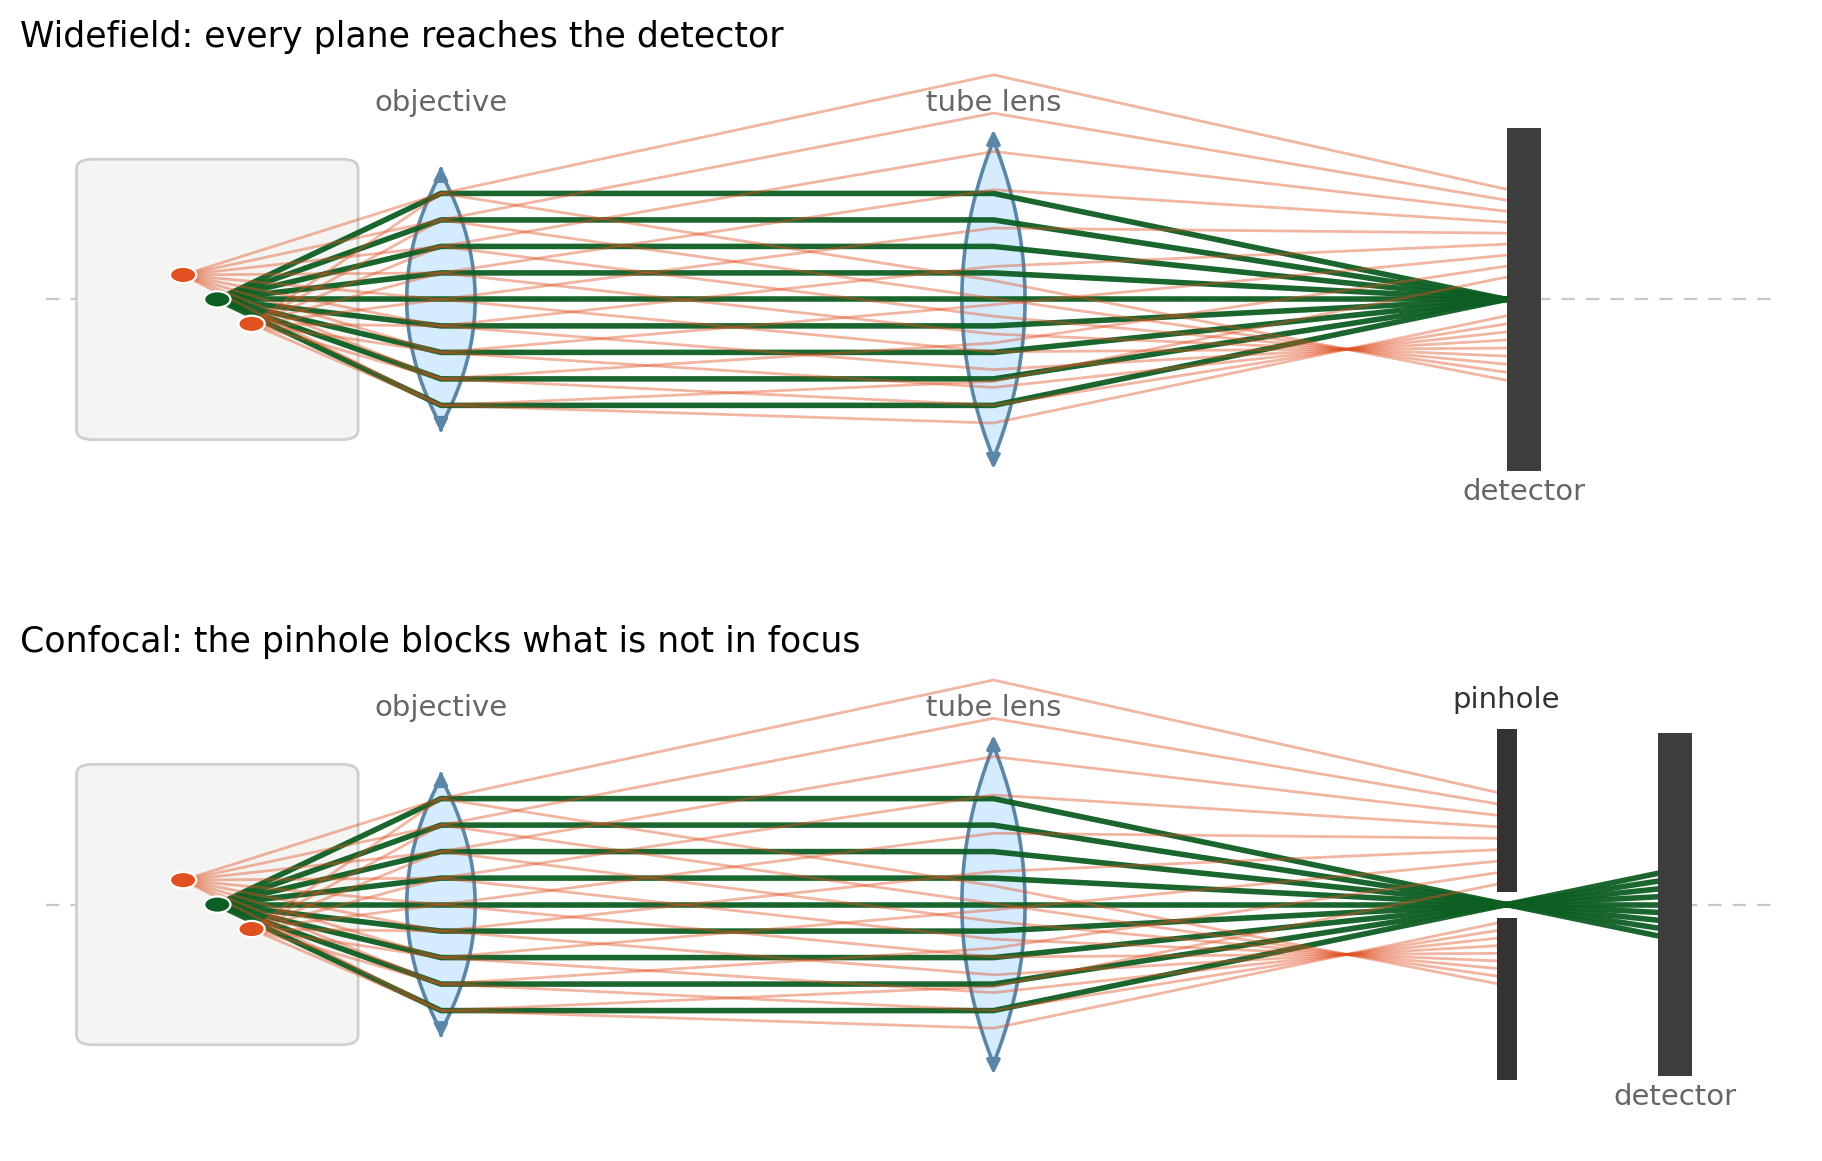
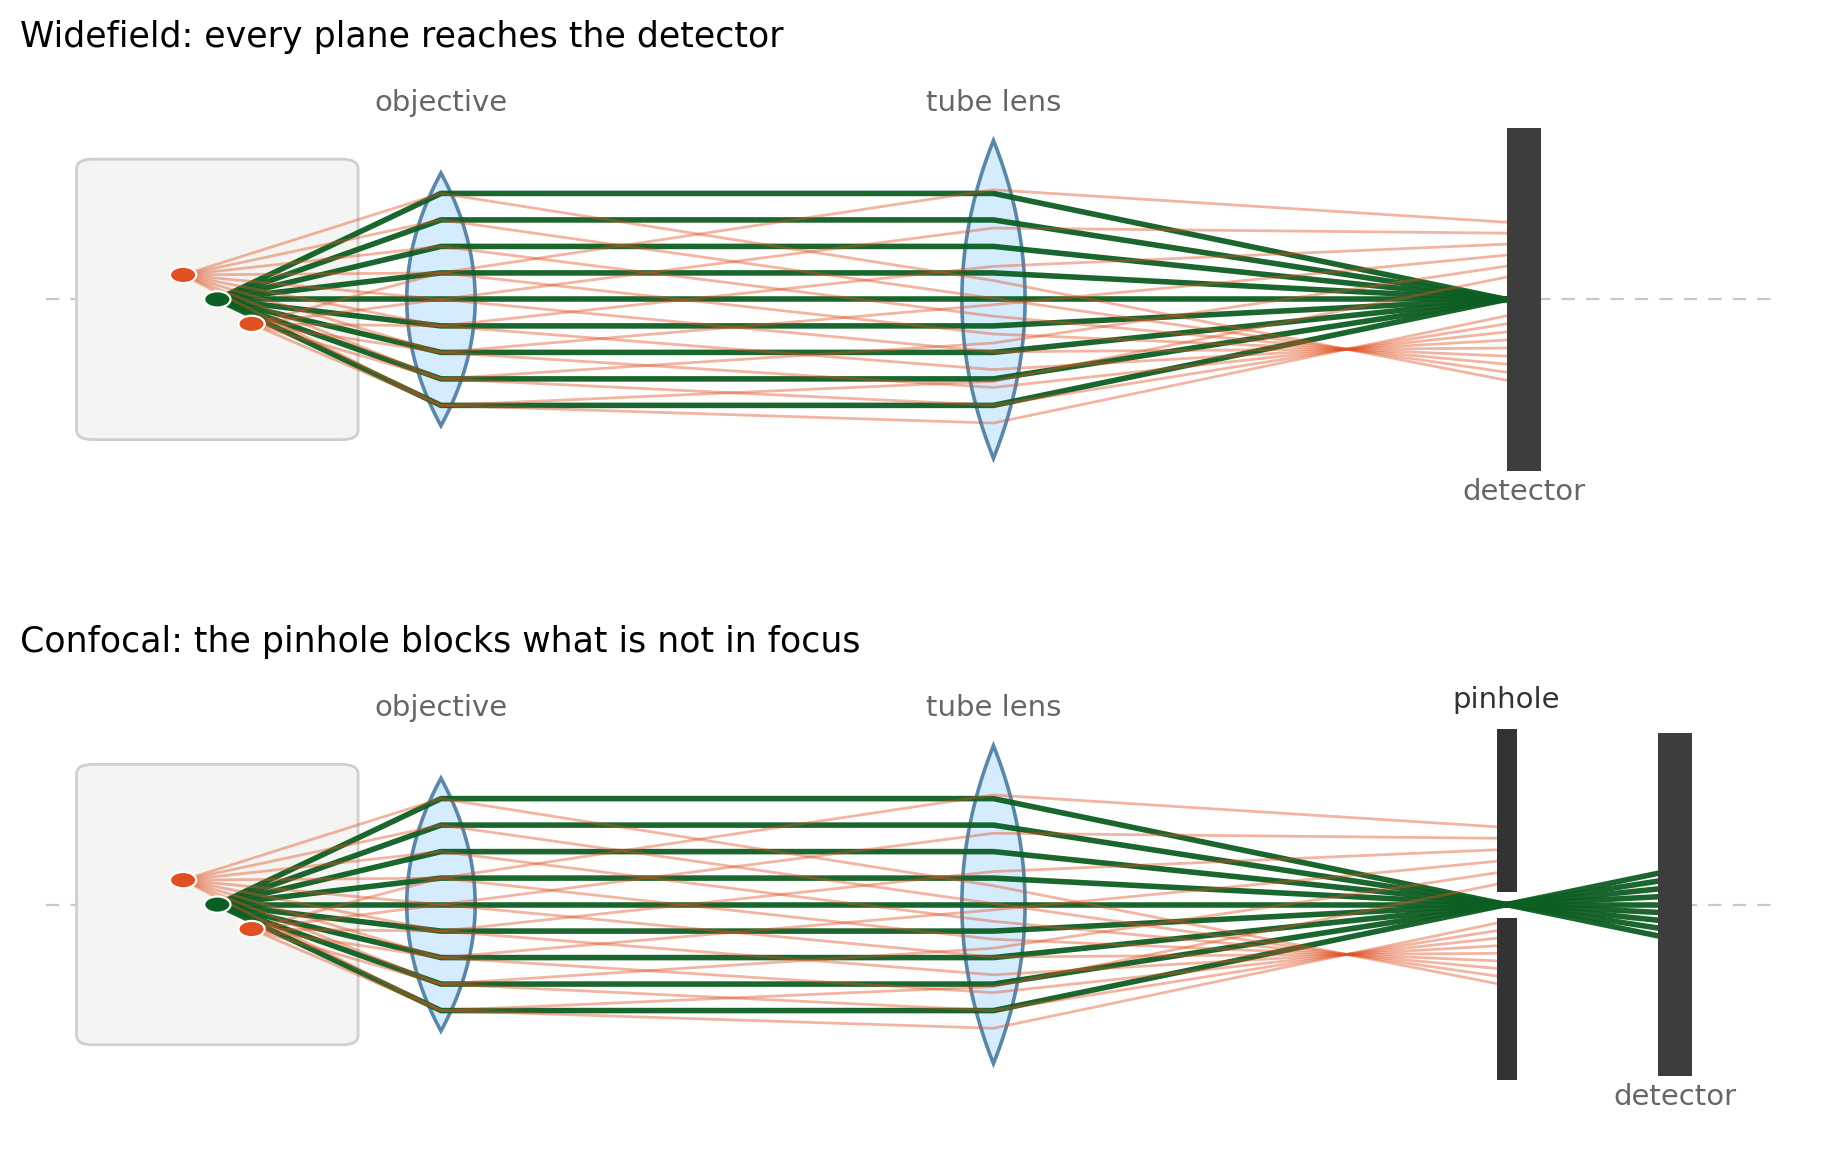
update

diff --git a/book/content/chap5_1.md b/book/content/chap5_1.md
@@ -3,19 +3,19 @@
 
 ## A very good idea, thirty years too early
 
-In 1957, a 30-year-old junior fellow at Harvard filed a patent for a microscope. His name was **Marvin Minsky**, and he is remembered today as one of the founders of artificial intelligence, not as a microscopist. That is exactly the point: he was not trying to invent an instrument. He was trying to trace the wiring of the brain, and he could not, because every slice of nervous tissue he looked at dissolved into the same milky haze we described in the chapter introduction.
+In 1957, a 30-year-old junior fellow at Harvard filed a patent for a microscope. His name was **Marvin Minsky**, and he is remembered today as one of the founders of artificial intelligence, not as a microscopist. In fact, he was not trying to invent an instrument. However, he was trying hard to trace the wiring of the brain, and he could not, because every slice of nervous tissue he looked at dissolved into the same haze we described in the chapter introduction.
 
-His solution, sketched in {ref}`Chapter 1 <chap1_1>` and worth stating precisely here, has two halves that must be used together. First, do not spread the illumination across the whole field. Focus it to a single diffraction-limited spot, so that almost all of the excitation power lands in one tiny volume. Second, do not image the whole field either. Place an aperture in front of the detector, positioned so that the only light which can pass through it is light that came from that same spot.
+His solution was based on two principles. First, do not spread the illumination across the whole field. Focus it to a single diffraction-limited spot, so that a large excitation power lands in one tiny volume. Second, do not image the whole field either. Place an aperture in front of the detector, positioned so that the only light which can pass through it is light that came from that same spot.
 
-Either half alone helps a little. Together they are transformative, because the two constraints are multiplicative: to reach the detector, a photon must have been emitted in the illuminated volume *and* have come from a point that the aperture accepts. The illuminated point and the detected point are the same point, which is where the name comes from: the illumination focus and the detection focus are _confocal_.
+If either half alone helps only a little, together they are transformative, because the two constraints are multiplicative: to reach the detector, a photon must have been emitted in the illuminated volume *and* have come from a point that the aperture accepts. The illuminated point and the detected point are the same point, which is where the name comes from: the illumination focus and the detection focus are _confocal_.
 
-Minsky built the instrument. It worked. Nobody cared. He had no laser, so he used a zirconium arc lamp and threw away almost all of its light in order to make a point source. He had no fast scanner, so he moved the specimen instead of the beam, at a stately few frames per second. He had no computer, so he displayed the result on the long-persistence screen of a military radar oscilloscope and looked at it before it faded, with no way of recording it other than photographing the screen. The idea had to wait for lasers, photomultipliers, galvanometers and digital storage to catch up. By the late 1980s all four existed, and the confocal microscope went from curiosity to the standard workhorse of cell biology in about a decade.
+Minsky even built the instrument. It worked, but nobody cared. The reason for this is that he had no laser, so he used a zirconium arc lamp and threw away almost all of its light in order to make a point source. He had no fast scanner, so he moved the specimen instead of the beam, at a stately few frames per second. He had no computer, so he displayed the result on the long-persistence screen of a military radar oscilloscope and looked at it before it faded, with no way of recording it other than photographing the screen. The idea had to wait for lasers, photomultipliers, galvanometers and digital storage to catch up. By the late 1980s all four existed, and the confocal microscope went from curiosity to the standard workhorse of cell biology in about a decade.
 
 ## What the pinhole actually does
 
 Consider a fluorophore sitting exactly in the focal plane. The objective collects its light, the tube lens focuses it, and it converges to a diffraction-limited spot in the image plane. Now consider a fluorophore a few micrometres above the focal plane. Its light also enters the objective, but because it was not at the front focal plane, the bundle leaving the objective is not collimated. The tube lens therefore focuses it somewhere else along the axis, and in the image plane it forms not a spot but a broad, dim disc.
 
-Put a small aperture in the image plane and the consequences are asymmetric in exactly the way we want (_{numref}`Fig. {number} <chap5_widefield_vs_confocal>`_). The in-focus light is already concentrated into a spot smaller than the aperture, so essentially all of it gets through. The out-of-focus light is spread over an area hundreds of times larger, so only the tiny fraction that happens to fall on the aperture survives. The rejection is not perfect, and it becomes weaker as the defocus becomes small, but it is dramatic.
+Put a small aperture in the image plane and the consequences are asymmetric in exactly the way we want (_{numref}`Fig. {number} <chap5_widefield_vs_confocal>`_). The in-focus light is already concentrated into a spot smaller than the aperture, so essentially all of it gets through. The out-of-focus light is spread over an area hundreds of times larger, so only the tiny fraction that happens to fall on the aperture survives.
 
 ```{figure} ../figures/chap5_widefield_vs_confocal.png
 ---
@@ -24,10 +24,6 @@ name: chap5_widefield_vs_confocal
 align: center
 ---
 Ray trace through an objective and a tube lens for three fluorophores: one in the focal plane (green) and two displaced along the axis (orange). The in-focus light converges to a point in the image plane. The defocused light comes to a focus before or after it, and by the time it reaches the image plane it is spread out. A pinhole placed at the image plane transmits the first and blocks almost all of the second.
-```
-
-```{tip}
-The pinhole sits in a plane that is conjugate to the focal plane, which is another way of saying that it sits where the camera sensor would sit. This is why a confocal image and a widefield image of the same specimen are in perfect register: the light takes the same path, and the only difference is what happens at the very end of it.
 ```
 
 There is a second consequence that is easy to miss. Because the detector now sees light from one point at a time, it does not need to be a camera. Knowing *where* the light came from is not the detector's job, since the scanner already knows where it pointed the beam. All the detector has to do is count photons, and for that the right device is a photomultiplier tube or an avalanche photodiode: a single, extremely sensitive element with no spatial resolution whatsoever. The image is not recorded. It is assembled, pixel by pixel, from a sequence of intensity measurements.
@@ -45,12 +41,12 @@ There is usually a second pinhole as well, on the excitation side, placed in a p
 ```{tip}
 A question that comes up every year: does the pinhole reduce the numerical aperture?
 
-It does not. The numerical aperture is a property of the objective and the immersion medium, $\text{NA} = n\sin\theta$, fixed by the widest cone of light the front lens can accept. The pinhole sits far downstream, in the image plane, long after that cone has been collected. What it does is discard part of the Airy pattern that the objective has already formed, which changes the shape of the effective point spread function slightly, but not the angular acceptance that produced it. If you replaced the detector with a screen, the spot you would see just before the pinhole and just after it would be the same spot, only dimmer.
+The short answer is that it does not. The numerical aperture is a property of the objective and the immersion medium, $\text{NA} = n\sin\theta$, fixed by the widest cone of light the front lens can accept. The pinhole sits far downstream, in the image plane, long after that cone has been collected. What it does is discard part of the Airy pattern that the objective has already formed, which changes the shape of the effective point spread function slightly, but not the angular acceptance that produced it. If you replaced the detector with a screen, the spot you would see just before the pinhole and just after it would be the same spot, only dimmer.
 ```
 
 ## How wide should the pinhole be?
 
-This is the one setting on a confocal microscope that you will change constantly, so it is worth understanding rather than memorising.
+The pinhole size is the one setting on a confocal microscope that you will change constantly, so it is worth understanding a bit more in detail.
 
 Closing the pinhole rejects more out-of-focus light and gives a thinner optical section. It also throws away signal, because even a perfectly in-focus point source is not a point in the image plane: it is an Airy pattern, with a finite width set by diffraction. Close the pinhole below the size of the Airy disk and you start cutting into the very light you are trying to collect.
 
@@ -62,7 +58,7 @@ $$
 
 Note carefully what a 1 AU pinhole does and does not admit. It passes the central disc of the Airy pattern and nothing else: the rings fall outside it. That central disc happens to contain about 84% of the energy, so that is what gets through, and the remaining 16% sitting in the rings is discarded. Opening the pinhole to recover it is a poor bargain, as the simulation below makes clear: going from 1 AU to 3 AU buys another ten percentage points of signal while tripling the width of the region you accept light from.
 
-### Simulation: sizing the pinhole
+### Simulation: changing the size of the pinhole
 
 Drag the slider and watch two things at once. On the left, the white circle is the pinhole drawn on the Airy pattern, and everything it rejects is dimmed. On the right, the curve is the fraction of the light from an in-focus point source that survives, with the current setting marked. Notice how flat the curve becomes past 1 AU, and how steeply it falls below it.
 
@@ -262,7 +258,7 @@ $$
 That is the size of the Airy disk _in the specimen_. The physical pinhole sits in the image plane, so its diameter must be multiplied by the magnification: $0.45 \times 63 \approx 28$ µm. This is why the pinhole in a real instrument is a visible hole rather than a microscopic one, and it is also why the same setting in micrometres means different things on different objectives. Always set the pinhole in Airy units and let the software do the conversion.
 ```
 
-Now the trade-off itself (_{numref}`Fig. {number} <chap5_pinhole_tradeoff>`_). Two things happen as the pinhole closes, and they happen on different schedules.
+Let us now discuss the  trade-off itself (_{numref}`Fig. {number} <chap5_pinhole_tradeoff>`_).
 
 The **lateral** resolution improves, but only in the last stretch. Down to about 1 AU almost nothing changes, because the pinhole is still larger than the diffraction spot and is not shaping it. Below roughly 0.5 AU the pinhole starts to act as a genuine spatial filter, and in the limit of a vanishingly small pinhole the effective point spread function becomes the *product* of the excitation and detection point spread functions. Multiplying two similar bell shapes gives a narrower bell: the width shrinks by a factor of $\sqrt{2}$, about 40%. That is the entire theoretical resolution gain of confocal microscopy over widefield, and it is available only at a pinhole size that transmits a few percent of your photons. In practice nobody uses it.
 
@@ -315,7 +311,7 @@ The obvious approach, and the one Minsky used, is to leave the optics alone and 
 
 **Laser scanning confocal microscopy** therefore does it the other way and moves the light. Two galvanometer mirrors, one for $x$ and one for $y$, are mounted on shafts that rotate through small angles in response to a voltage from the controller. Tilting them deflects the beam, so the focus traces a raster across the specimen while the specimen itself sits still. The emitted light travels back along the same path and off the same mirrors, which cancels the scan motion and delivers a stationary beam to a stationary pinhole. This trick is called **descanning**, and it is what makes a single fixed pinhole possible at all. To build a $z$-stack you then move the objective or the stage in $z$ alone, one slow step per plane rather than hundreds of fast ones per image.
 
-The cost is time. Each pixel gets the detector's attention for a **dwell time** of typically 1 to 10 µs, and a 512 × 512 image therefore takes somewhere between a quarter of a second and several seconds. Faster is possible with a resonant scanner, which oscillates at a fixed frequency of about 8 kHz and reaches video rate, but the dwell time falls in proportion and the images become noisier.
+The cost is time. Each pixel gets the detector's attention for a **dwell time** of typically 1 to 10 µs, and a 512 × 512 image therefore takes somewhere between a quarter of a second and several seconds. A faster scan is only possible with a resonant scanner, which oscillates at a fixed frequency of about 8 kHz and reaches video rate, but the dwell time falls in proportion and the images become noisier.
 
 **Spinning-disk confocal microscopy** attacks the problem by parallelising it. The idea goes back to the **Nipkow disk**, patented by Paul Nipkow in 1884 for mechanical television and repurposed for microscopy by Mojmír Petráň and Milan Hadravský in the 1960s. A disk carrying about a thousand pinholes, laid out along interleaved Archimedean spirals so that a partial rotation sweeps every point of the field exactly once, spins in a conjugate image plane. Hundreds of confocal spots are illuminated and detected at the same time, and because there are now hundreds of positions to keep track of, the detector has to be a camera again.
 
@@ -342,9 +338,7 @@ To summarise:
 - **Drawbacks**: scanning is slow; the whole depth of the specimen is illuminated for every plane, causing photobleaching and phototoxicity out of proportion to the data collected; the pinholes must be well aligned; signal is discarded by design.
 
 ```{tip}
-A word on cost, since it shapes what you will actually find in a facility. A good commercial confocal starts somewhere around twenty thousand euros and climbs steeply from there, which is expensive but an order of magnitude below the super-resolution instruments of {ref}`Chapter 9 <chap9>`. Much of what you are paying for is alignment. The optical principle is simple enough that confocals were once routinely home-built, but the scanner, the pinhole and the detection path have to stay aligned to a fraction of the Airy disk while mirrors oscillate a few thousand times a second, and that is engineering rather than optics. Almost nobody builds their own any more.
-
-The practical consequence of the photodamage problem is worth stating plainly too: point-scanning confocal is mostly a technique for fixed specimens, or for small fields imaged occasionally. For a fast live process, a plain widefield microscope will often beat it outright, because widefield captures the whole field in one exposure and confocal has to visit it a quarter of a million times.
+A word on actual cost, since it shapes what you will actually find in a facility. A good commercial confocal starts somewhere around twenty thousand euros and climbs steeply from there, which is expensive but an order of magnitude below the super-resolution instruments of {ref}`Chapter 9 <chap9>`. Much of what you are paying for is alignment. The optical principle is simple enough that confocals were once routinely home-built, but the scanner, the pinhole and the detection path have to stay aligned to a fraction of the Airy disk while mirrors oscillate a few thousand times a second, and that is engineering rather than optics. Almost nobody builds their own any more.
 ```
 
 The next three sections all take the same view of the problem. If the trouble is that we generate light we then have to throw away, the answer is to stop generating it.
